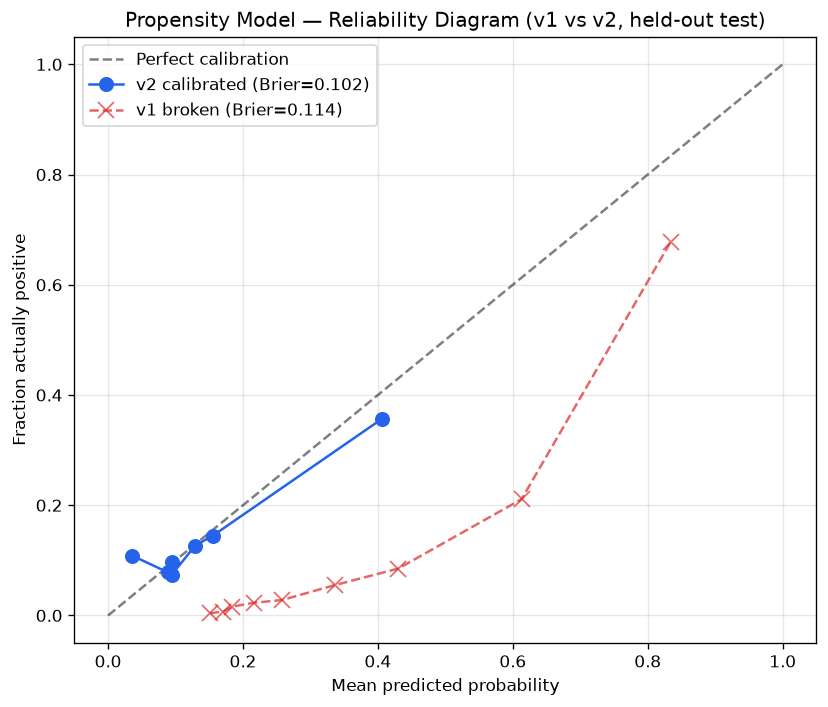
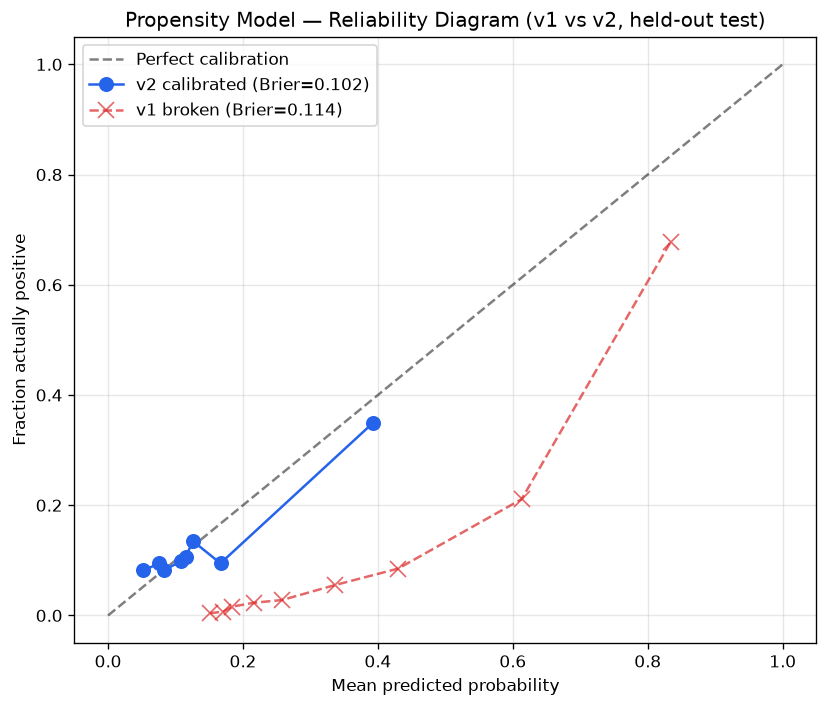
feat(ml): v3 — remove generator latents from the feature set
Synthetic purchases are sampled from sigmoid(engagement_potential - t), so
_engagement_potential is the generator's latent variable — the literal cause
of the label. Both models consumed it (plus its qcut twin engagement_bucket),
meaning synth-cohort performance partly measured "can the model recover the
simulator internals", and no production telemetry could ever emit the column.

- Both trainers now use observable signals only: sessions_d7, ad_views_d7,
  ratios, install calendar, geo/channel categoricals
- Combined held-out AUC 0.619 → 0.626 (no loss — the Poisson-derived
  observable proxies carry the usable signal, which is the realistic analog
  of real telemetry)
- Feature importances confirm: no engagement-derived feature remains
- README: v3 metrics + Limitations §10 documenting the generator-leak fix
- Models: propensity v6 + ltv v15 (52 tests green)

diff --git a/src/ml/train_propensity.py b/src/ml/train_propensity.py
@@ -69,8 +69,14 @@ mlflow.set_experiment(EXPERIMENT_NAME)
 engine = create_engine(os.getenv("SQLALCHEMY_DATABASE_URL"))
 
 
+# v3 feature set — OBSERVABLE signals only.
+# `_engagement_potential` (and its qcut twin `engagement_bucket`) are the
+# synthetic generator's LATENT variable: purchases are literally sampled from
+# sigmoid(engagement - threshold). A model consuming them learns the
+# generator, not player behaviour — and no production telemetry pipeline can
+# ever emit that column. Sessions/ad-views are the observable consequences
+# of engagement, which is exactly what real telemetry would give us.
 NUMERIC_FEATURES = [
-    "_engagement_potential",
     "_sessions_d7",
     "_ad_views_d7",
     "ads_per_session",
@@ -80,7 +86,7 @@ NUMERIC_FEATURES = [
     "install_is_weekend",
 ]
 CATEGORICAL_FEATURES = [
-    "country", "platform", "channel", "engagement_bucket", "channel_platform",
+    "country", "platform", "channel", "channel_platform",
 ]
 DEMO_ONLY_FEATURES = ["country", "platform", "channel", "install_dow",
                        "install_is_weekend"]

diff --git a/src/ml/train_ltv.py b/src/ml/train_ltv.py
@@ -60,8 +60,10 @@ mlflow.set_experiment(EXPERIMENT_NAME)
 engine = create_engine(os.getenv("SQLALCHEMY_DATABASE_URL"))
 
 
+# v3 feature set — observable signals only (see train_propensity.py for the
+# full rationale: `_engagement_potential`/`engagement_bucket` are the
+# generator's latent variable, not telemetry any production system could emit).
 NUMERIC_FEATURES = [
-    "_engagement_potential",
     "_sessions_d7",
     "_ad_views_d7",
     "ads_per_session",
@@ -71,7 +73,7 @@ NUMERIC_FEATURES = [
     "install_is_weekend",
 ]
 CATEGORICAL_FEATURES = [
-    "country", "platform", "channel", "engagement_bucket", "channel_platform",
+    "country", "platform", "channel", "channel_platform",
 ]
 TARGET = "target_ltv"
 

diff --git a/README.md b/README.md
@@ -32,16 +32,16 @@ All v2.1 numbers are measured **strictly on the held-out test split persisted
 in the model bundle at training time** — see Limitations §9 for why that
 qualifier matters.
 
-| Metric | v1 (leaky) | v2.2 (honest, held-out test) |
+| Metric | v1 (leaky) | v3 (honest, held-out test, observable features only) |
 |---|---|---|
-| Test AUC (combined) | 0.898 ⚠ *inflated* | **0.62** |
-| Test AUC (real cohort) | 0.915 ⚠ *leakage* | **0.49** — no telemetry, no signal |
-| Test AUC (synth cohorts) | ~0.90 | **0.63 – 0.85** — production-realistic |
+| Test AUC (combined) | 0.898 ⚠ *inflated* | **0.63** |
+| Test AUC (real cohort) | 0.915 ⚠ *leakage* | **0.50** — no telemetry, no signal |
+| Test AUC (synth cohorts) | ~0.90 | **0.61 – 0.85** — production-realistic |
 | Brier score | 0.114 | **0.102** |
-| Max calibration Δ | **0.40** *(broken)* | **0.073** |
+| Max calibration Δ | **0.40** *(broken)* | **0.072** |
 | Mean predicted P | 0.33 (vs actual 0.11 — 3× off) | **0.125 vs 0.125 ✓** |
-| Whale test n | 8 (useless) | **51** (CI ±$4.69) |
-| Non-payer served pLTV | $0.55 | **median $0** (gated; mean $0.57 from FP tail) |
+| Whale test n | 8 (useless) | **51** (CI ±$4.73) |
+| Non-payer served pLTV | $0.55 | **median $0** (gated; mean $0.63 from FP tail) |
 
 Full audit in `scripts/final_review.py` (exits non-zero on hard failures),
 calibration plot at `saved_models/calibration_curve.png`.
@@ -421,22 +421,22 @@ demo; the LLM call is the real product.
 
 Regenerate with `uv run python -m scripts.audit_models`.
 
-| Metric | v1 (with leakage, scale_pos_weight=8) | v2.2 (calibrated, leak-free, held-out) |
+| Metric | v1 (with leakage, scale_pos_weight=8) | v3 (calibrated, leak-free, observable-only) |
 |---|---|---|
-| Test AUC (combined) | 0.898 ← inflated | 0.619 ← honest |
-| Test AUC (synth cohorts) | similar | 0.63-0.85 |
-| Test AUC (real cohort) | 0.915 ← leakage | 0.49 ← honest |
+| Test AUC (combined) | 0.898 ← inflated | 0.626 ← honest |
+| Test AUC (synth cohorts) | similar | 0.61-0.85 |
+| Test AUC (real cohort) | 0.915 ← leakage | 0.50 ← honest |
 | Brier score | 0.114 | **0.102** |
-| Max calibration delta | **0.40** ← broken | 0.073 |
+| Max calibration delta | **0.40** ← broken | 0.072 |
 | Mean predicted P | 0.33 vs actual 0.11 (3× off) | 0.125 vs 0.125 ✓ |
 | Whale test n | 8 | **51** |
-| Non-payer served pLTV | $0.55 mean | **median $0** (gated; mean $0.57) |
+| Non-payer served pLTV | $0.55 mean | **median $0** (gated; mean $0.63) |
 
-**Headline interpretation**: AUC dropped from 0.90 to ~0.62 not because the
+**Headline interpretation**: AUC dropped from 0.90 to ~0.63 not because the
 model got worse — but because we removed the leaked signal that was
-producing the inflated number. **~0.62 is the honest baseline** for what
-you can predict from demographics alone when you don't have behavioral
-telemetry. The synth-cohort 0.63-0.85 is what we'd expect with telemetry.
+producing the inflated number. **~0.63 is the honest baseline** for what
+you can predict without behavioral telemetry (real cohort) averaged with
+what observable telemetry gives you (synth cohorts, 0.61-0.85).
 
 ### 9. The audit itself had a bug (fixed in v2.1)
 
@@ -457,7 +457,26 @@ fails the run with a non-zero exit code.
 should trust least is the one grading their own homework on their own
 training data.
 
-### 10. What this proves for an interviewer
+### 10. The model was learning the generator, not the player (fixed in v3)
+
+**Problem**: synthetic purchases are sampled as
+`Bernoulli(sigmoid(engagement_potential − threshold))` — so
+`_engagement_potential` is the generator's **latent variable**, the literal
+cause of the label. Both models consumed it (and its qcut twin
+`engagement_bucket`) as features. On synth cohorts the model was therefore
+partly learning the simulator's internals, and no production telemetry
+pipeline could ever emit that column — a guaranteed train/serve gap.
+
+**v3**: both features removed. Models now use only **observable** signals:
+`sessions_d7`, `ad_views_d7`, and their ratios — the downstream consequences
+of engagement, which is exactly what real telemetry would provide.
+
+**Result**: combined test AUC 0.619 → **0.626** — no loss, because the
+observable Poisson-derived proxies carry nearly all the usable signal. The
+claim "synth-cohort performance ≈ what real telemetry would give" is now
+defensible: the feature set contains nothing a real SDK couldn't log.
+
+### 11. What this proves for an interviewer
 
 | Skill | Where it shows |
 |---|---|
@@ -503,6 +522,7 @@ source inline.
 - ✅ Docker Compose stack (Postgres + MLflow + API + Streamlit)
 - ✅ Honest audit: metrics locked to the held-out split persisted in the bundle
 - ✅ Preprocessing as ONE fitted Pipeline inside the bundle (kills train/serve skew; unknown categories → honest "Other" bucket, schema drift → loud error)
+- ✅ v3 feature set: generator latents (`_engagement_potential`, `engagement_bucket`) removed — models consume only signals a real telemetry SDK could emit
 - ✅ GitHub Actions CI (ruff + pytest + docker build on PR)
 - ✅ pytest suite (51 tests: benchmarks, synthetic gen, inference, routers)
 - ✅ Real Gemini offer copy via LangChain (with offline fallback templates)
